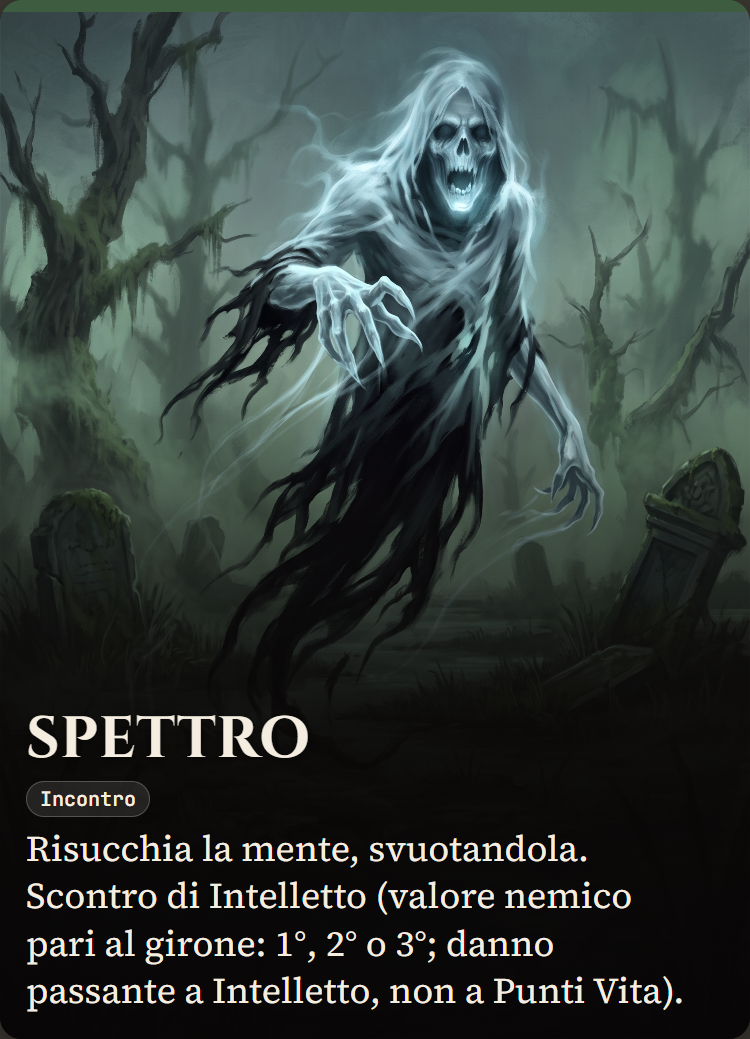
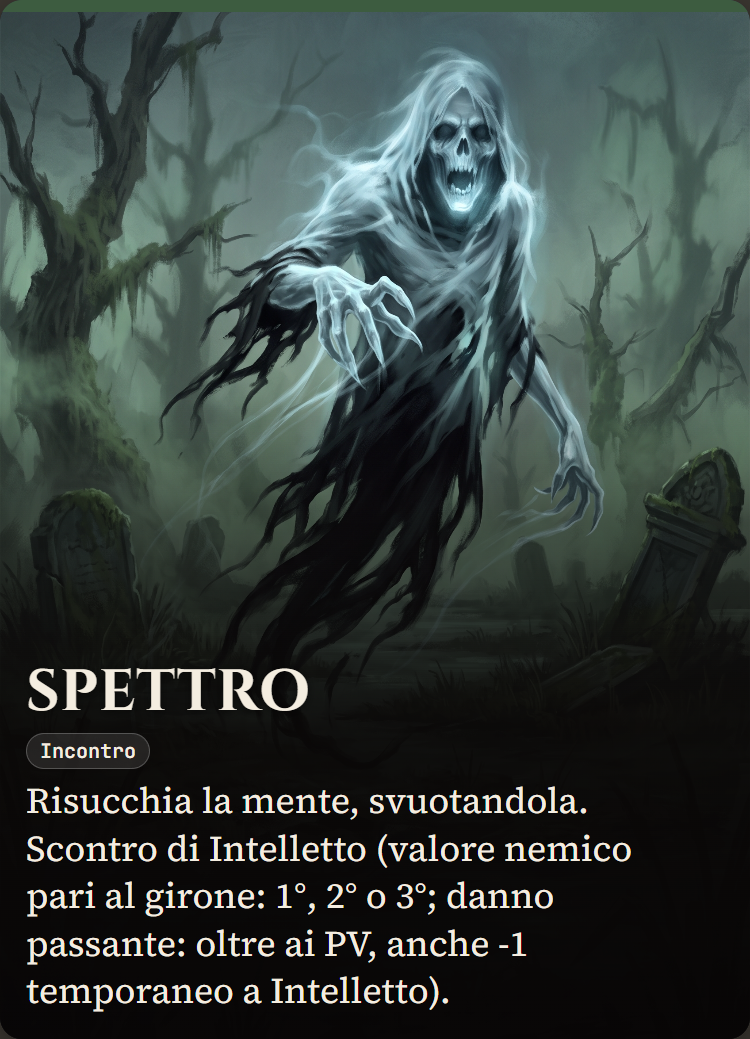
Spettro (Non-morti): passante = PV + -1 temporaneo a Intelletto, come tutti i passanti

Changed region(s): [[0.0307, 0.6468, 0.92, 0.9856]]

diff --git a/gioco.html b/gioco.html
@@ -661,7 +661,7 @@ const INCONTRI = {
   nonmorti:[
     C("nm_nessuno","Nessun evento","nessun","Il piano è insolitamente silenzioso. Nessun effetto."),
     C("nm_appestato","Appestato","incontro","Un cadavere ambulante cosparge languore e pustole a ogni contatto. Scontro di Forza (valore nemico pari al girone: 1°, 2° o 3°).",{check:"for",gravity:"level"}),
-    C("nm_spettro","Spettro","incontro","Risucchia la mente, svuotandola. Scontro di Intelletto (valore nemico pari al girone: 1°, 2° o 3°; danno passante a Intelletto, non a Punti Vita).",{check:"int",gravity:"level",damageStat:"int"}),
+    C("nm_spettro","Spettro","incontro","Risucchia la mente, svuotandola. Scontro di Intelletto (valore nemico pari al girone: 1°, 2° o 3°; danno passante: oltre ai PV, anche -1 temporaneo a Intelletto).",{check:"int",gravity:"level",onLoseExtra:"tempDebuffInt"}),
     C("nm_nugolo","Nugolo necrotico","incontro","Uno sciame di ratti e insetti in decomposizione assale in massa. Scontro di Destrezza: 3 creature di valore 1 (2 di valore 2 nel 3° girone).",{check:"des",gravity:"level-1",swarm:"auto"}),
     C("nm_tomba","Tomba saccheggiabile","check","Una tomba intatta. Check di Destrezza: se superato, trovi un oggetto; se fallito, una trappola ti ferisce (-1 PV).",{check:"des",onFail:{type:"damage",n:1},onSuccess:{type:"item"}}),
     C("nm_nebbia","Nebbia di decomposizione","check","L'aria stessa marcisce e appesantisce i polmoni. Check di Forza: se fallito, -1 PV.",{check:"for",onFail:{type:"damage",n:1,group:true}}),

diff --git a/cardgen/print-ristampe.js b/cardgen/print-ristampe.js
@@ -22,7 +22,7 @@ const POKER = { w: 63.5, h: 88 }, TAROCCO = { w: 120, h: 70 };
 const RISTAMPE = [
   { id: 'o_bacchettarinvio', back: 'retro_oggetto', ...POKER },      // Bacchetta del Rinvio: annulla l'Incontro per tutti
   { id: 'veggente', back: 'retro_classi', ...POKER },                // Veggente: Intelletto 3, abilita' passiva
-  { id: 'en_spettro', back: 'retro_incontro_entropia', ...POKER },   // Spettro del Tempo: da verificare (testo con "oltre ai PV")
+  { id: 'nm_spettro', back: 'retro_incontro_nonmorti', ...POKER },   // Spettro (Non-morti): passante = PV + -1 temporaneo a Intelletto
   { id: 'antro_creatura', back: 'retro_piani', ...TAROCCO },         // L'Antro della Creatura: statistica a scelta
 ];
 

diff --git a/cardgen/CARTE_DA_RISTAMPARE.md b/cardgen/CARTE_DA_RISTAMPARE.md
@@ -21,10 +21,10 @@ sé stesso, vedi il bug del 24/09 sotto). Il risultato va poi copiato su `assets
 | 2026-10-08 | Bacchetta del Rinvio (Oggetto oneshot, `o_bacchettarinvio`) | Testo | Non è più "come la Furtività" (una sola persona nascosta): annulla l'Incontro ostile per tutto il gruppo presente, senza rischio né ricompensa, anche contro non-morti e demoni. Rigenerata da `assets/cards_raw/` con `render-oggetti.js`, copiata su `assets/cards/o_bacchettarinvio.png`. |
 | 2026-10-08 | L'Antro della Creatura (Piano Terreno, Finale B, `antro_creatura`) | Testo | La caratteristica dello scontro contro il Drago Antico non è più casuale (d6: 1-2 Forza, 3-4 Intelletto, 5-6 Destrezza) ma a scelta del gruppo fra Forza, Intelletto e Destrezza. Rigenerata da `assets/cards_raw/` con `render-piano-terreno.js` (formato orizzontale), copiata su `assets/cards/antro_creatura.png`. |
 | 2026-10-09 | Veggente (Classe, `veggente`) | Testo + Statistica | Intelletto da 4 a 3 (compensa una capacità molto forte: conosce sempre la carta in cima al mazzo Piani, sia come destinazione sia come uscita). L'abilità non è più "da lanciare" e senza ricarica: è passiva, la sa sempre prima di ogni salto. Rigenerata da `assets/cards_raw/veggente.jpg` con `render-classes.js`, copiata su `assets/cards/veggente.png`; il promemoria (retro, tabella classi) si aggiorna da solo da `classes-data.json`. |
+| 2026-10-09 | Spettro (Incontro Non-morti, `nm_spettro`) | Testo | Era la carta sbagliata da correggere (non lo Spettro del Tempo): diceva "danno passante a Intelletto, non a Punti Vita". Ora, come tutti i passanti: "danno passante: oltre ai PV, anche -1 temporaneo a Intelletto"; nel gioco il danno passante va ai PV e il -1 temporaneo a Intelletto solo a chi lo subisce. Rigenerata da `assets/cards_raw/` con `render-incontri.js` (mazzo `nonmorti`), copiata su `assets/cards/nm_spettro.png`. Lo Spettro del Tempo (`en_spettro`) era già giusto e non va ristampato. |
 | 2026-10-09 | Biglietto da visita (fronte) e retro della locandina | Grafica | Tolto il quadrante (cerchio con tacche): al suo posto l'avatar del profilo Instagram `@planar.escape` (foto fornita dall'utente, salvata in `assets/ui/avatar_instagram.jpg`), sul biglietto in basso a sinistra col nome profilo, sul retro della locandina sopra il titolo. Rigenerati con `render-biglietto.js` e `render-locandina.js` (`biglietto_fronte.pdf`, `locandina_retro.pdf`). |
 | 2026-10-08 | Pedine: 5 abilità di classe (40mm, nuove) + 15 risorsa planare + 15 reroll + 20 segnalini potenziamento/depotenziamento | Nuovo componente | Pedina abilità a due facce con scritta: fronte "ABILITÀ PRONTA" (moneta che brilla), retro "ABILITÀ USATA" (moneta spenta); il doppio delle pedine risorsa planare (40mm contro 20mm). Arte dell'utente in `assets/ui/pedina_abilita_fronte.jpg` / `_retro.jpg`. Foglio unico A4 fronte/retro con tutte le pedine (retro specchiato): `node render-pedine.js abilita` -> `pedine_abilita_fronte.pdf` / `_retro.pdf`. Da stampare insieme alla stampa patch delle carte. |
 
-Da verificare: lo Spettro del Tempo (`en_spettro`) e le altre carte con danno passante hanno già nel file "oltre ai PV, anche -1 temporaneo…" dal 2026-10-05; se la copia stampata non riporta "oltre ai PV" è una stampa vecchia e va rifatta.
 
 ## Già ristampate / in attesa di conferma stampa
 
